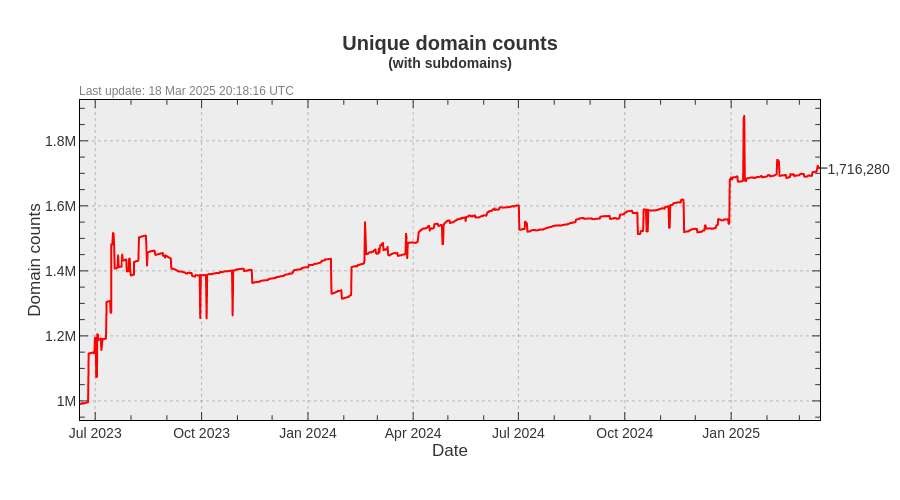
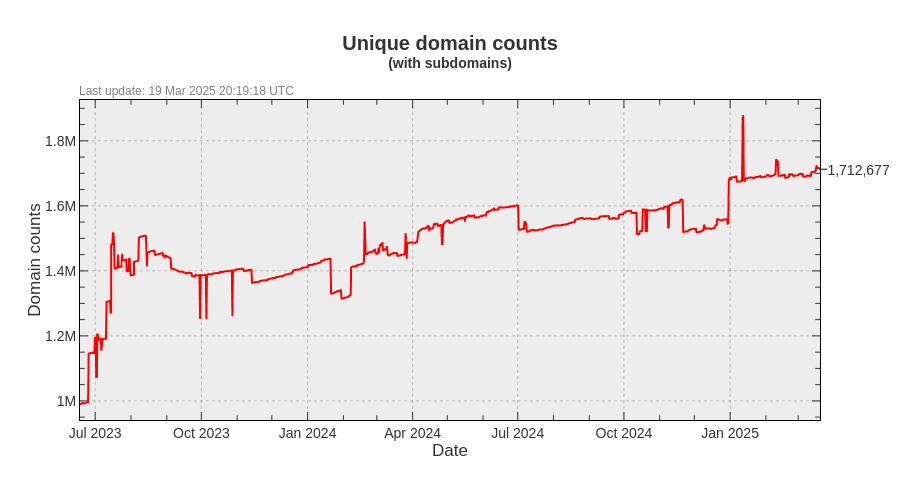
Update pages

diff --git a/README.md b/README.md
@@ -3,22 +3,22 @@ A blacklist file for blocking ads, trackers and malware domains.
 
[1 lines of base64/hex data omitted]
 
-- Unique domains: 1,716,280
-- Without subdomains: 1,102,972
-- Last update: 18 Mar 2025 20:18:16 UTC
-- Version: 2025.03.18.01
+- Unique domains: 1,712,677
+- Without subdomains: 1,099,378
+- Last update: 19 Mar 2025 20:19:18 UTC
+- Version: 2025.03.19.01
 
 
 ### Downloads:
 
 | Format             | Domain count      | Download Link |
 |:------------------ | -----------------:|:-------------:|
-| *Adblock Plus*     | 1,102,972 | [Download](https://dl.cenk.app/bad-hosts/bad-hosts-abp) |
-| *Wildcard domains* | 1,102,972 | [Download](https://dl.cenk.app/bad-hosts/bad-hosts-wildcard) |
-| *dnsmasq*          | 1,102,972 | [Download](https://dl.cenk.app/bad-hosts/bad-hosts-dnsmasq) |
-| *Unbound*          | 1,102,972 | [Download](https://dl.cenk.app/bad-hosts/bad-hosts-unbound) |
-| *hosts*            | 1,716,280 | [Download](https://dl.cenk.app/bad-hosts/hosts) |
-| *hosts (ipv6)*     | 1,716,280 | [Download](https://dl.cenk.app/bad-hosts/hosts-ipv6) |
-| *Plain domains*    | 1,716,280 | [Download](https://dl.cenk.app/bad-hosts/bad-hosts-domains) |
+| *Adblock Plus*     | 1,099,378 | [Download](https://dl.cenk.app/bad-hosts/bad-hosts-abp) |
+| *Wildcard domains* | 1,099,378 | [Download](https://dl.cenk.app/bad-hosts/bad-hosts-wildcard) |
+| *dnsmasq*          | 1,099,378 | [Download](https://dl.cenk.app/bad-hosts/bad-hosts-dnsmasq) |
+| *Unbound*          | 1,099,378 | [Download](https://dl.cenk.app/bad-hosts/bad-hosts-unbound) |
+| *hosts*            | 1,712,677 | [Download](https://dl.cenk.app/bad-hosts/hosts) |
+| *hosts (ipv6)*     | 1,712,677 | [Download](https://dl.cenk.app/bad-hosts/hosts-ipv6) |
+| *Plain domains*    | 1,712,677 | [Download](https://dl.cenk.app/bad-hosts/bad-hosts-domains) |
 
 
